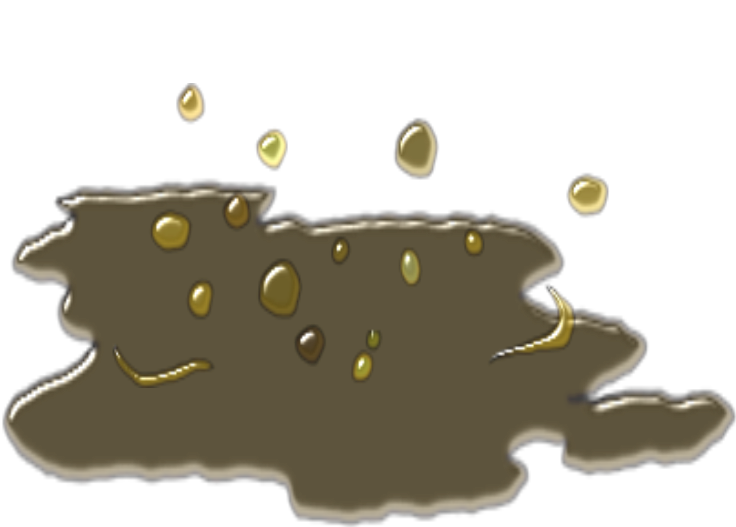
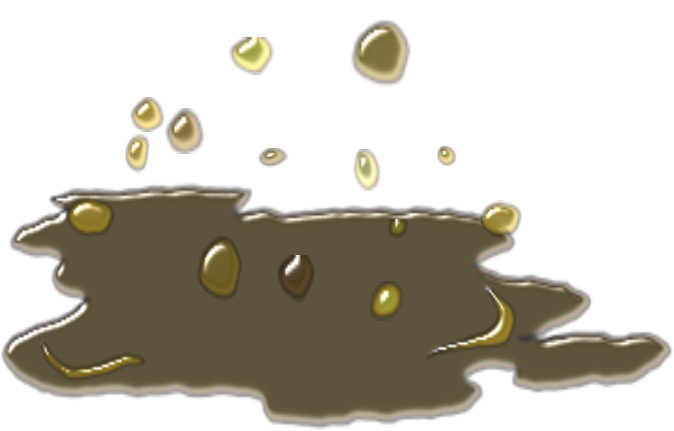
changes and update animations
- Bird: added 3 frames for flying
- Bush: changed Bush animation - vertical cut
- Bog: more lively animation
- Beehive: added bee animation
- Fox: walk animation
- Wolf: fix animation

diff --git a/Endless Runner/Fox.m b/Endless Runner/Fox.m
@@ -21,12 +21,19 @@
         self.physicsBody.contactTestBitMask = 0x1 << 1 | 0x1 << 3;
         self.physicsBody.categoryBitMask = 0x1 << 2;//enemy
         self.physicsBody.collisionBitMask = 0x1 << 1 | 0x1 << 3;
+        [self animateSelf];
     }
     return self;
 }
 
 - (void) animateSelf{
     [super animateSelf];
+    NSMutableArray *textures = [NSMutableArray arrayWithCapacity:16];
+    for (int i = 1; i < 5; i++) {
+        NSString *textureName = [NSString stringWithFormat:@"fox%d.png", i];
+        SKTexture *texture =[SKTexture textureWithImageNamed:textureName];
+        [textures addObject:texture];
+    }
     [self removeActionForKey:[NSString stringWithFormat:@"animate %@", self.class]];
     [self runAction:[SKAction sequence:@[[SKAction repeatAction:[SKAction sequence:@[[SKAction runBlock:^{
         self.xScale = -0.2;
@@ -34,12 +41,14 @@
         [self setSpeed:40];
         [self impulseEntityRight];
         [self setSpeed:20];
+        self.runAnimation = [SKAction animateWithTextures:textures timePerFrame:3];
     }], [SKAction waitForDuration:20], [SKAction runBlock:^{
         self.xScale = 0.2;
         [self jumpEntity];
         [self setSpeed:40];
         [self impulseEntityLeft];
         [self setSpeed:20];
+        [self runAction:[SKAction repeatActionForever:self.runAnimation]];
     }], [SKAction waitForDuration:20]]] count:5]]] withKey:[NSString stringWithFormat:@"animate %@", self.class]];
 }
 

diff --git a/Endless Runner/Beehive.m b/Endless Runner/Beehive.m
@@ -18,6 +18,7 @@
         [self setScale:0.3];
         [self.physicsBody setDynamic:false];
         self.physicsBody.categoryBitMask = 0x1 << 6;
+        [self animateSelf];
     }
     return self;
 }
@@ -29,12 +30,22 @@
 
 - (void) animateSelf{
     [super animateSelf];
+    NSMutableArray *textures = [NSMutableArray arrayWithCapacity:16];
+    for (int i = 8; i < 14; i++) {
+        NSString *textureName = [NSString stringWithFormat:@"beehive%d.png", i];
+        SKTexture *texture =[SKTexture textureWithImageNamed:textureName];
+        [textures addObject:texture];
+    }
+    SKTexture *texture =[SKTexture textureWithImageNamed:@"beehive8.png"];
+    [textures addObject:texture];
     
     [self removeActionForKey:[NSString stringWithFormat:@"animate %@", self.class]];
     [self runAction:[SKAction sequence:@[[SKAction repeatAction:[SKAction sequence:@[[SKAction runBlock:^{
-        //Add Shrink
+        //Add Buzz animation
+        self.buzzAnimation =[SKAction animateWithTextures:textures timePerFrame:3];
     }], [SKAction waitForDuration:1], [SKAction runBlock:^{
-        //Add Shrink
+        //Add Buzz animation
+        [self runAction:[SKAction repeatActionForever:self.buzzAnimation]];
     }], [SKAction waitForDuration:1]]] count:5]]] withKey:[NSString stringWithFormat:@"animate %@", self.class]];
 }
 

diff --git a/Endless Runner/Bush.m b/Endless Runner/Bush.m
@@ -39,7 +39,7 @@
 - (void) deathAnimation{
     [super deathAnimation];
     NSMutableArray *textures = [NSMutableArray arrayWithCapacity:16];
-    for (int i = 1; i < 6; i++) {
+    for (int i = 1; i < 5; i++) {
         NSString *textureName = [NSString stringWithFormat:@"bush%d.png", i];
         SKTexture *texture =[SKTexture textureWithImageNamed:textureName];
         [textures addObject:texture];

diff --git a/Endless Runner/Bird.m b/Endless Runner/Bird.m
@@ -27,7 +27,7 @@
 - (void) animateSelf{
     [super animateSelf];
     NSMutableArray *textures = [NSMutableArray arrayWithCapacity:16];
-    for (int i = 1; i < 5; i++) {
+    for (int i = 1; i < 3; i++) {
         NSString *textureName = [NSString stringWithFormat:@"bird%d.png", i];
         SKTexture *texture =[SKTexture textureWithImageNamed:textureName];
         [textures addObject:texture];

diff --git a/Endless Runner/Wolf.m b/Endless Runner/Wolf.m
@@ -28,7 +28,7 @@
 - (void) animateSelf{
     [super animateSelf];
     NSMutableArray *textures = [NSMutableArray arrayWithCapacity:16];
-    for (int i = 1; i < 5; i++) {
+    for (int i = 1; i < 8; i++) {
         NSString *textureName = [NSString stringWithFormat:@"wolf%d.png", i];
         SKTexture *texture =[SKTexture textureWithImageNamed:textureName];
         [textures addObject:texture];

diff --git a/Endless Runner/Bog.m b/Endless Runner/Bog.m
@@ -30,7 +30,7 @@
 - (void) animateSelf{
     [super animateSelf];
     NSMutableArray *textures = [NSMutableArray arrayWithCapacity:16];
-    for (int i = 1; i < 7; i++) {
+    for (int i = 1; i < 6; i++) {
         NSString *textureName = [NSString stringWithFormat:@"bog%d.png", i];
         SKTexture *texture =[SKTexture textureWithImageNamed:textureName];
         [textures addObject:texture];

diff --git a/Endless Runner/Beehive.h b/Endless Runner/Beehive.h
@@ -10,6 +10,7 @@
 
 @interface Beehive : Enemy
 
+@property SKAction *buzzAnimation;
 @property SKAction *explodeAnimation;
 
 @end

diff --git a/Endless Runner/Fox.h b/Endless Runner/Fox.h
@@ -10,4 +10,6 @@
 
 @interface Fox : Enemy
 
+@property SKAction *runAnimation;
+
 @end
